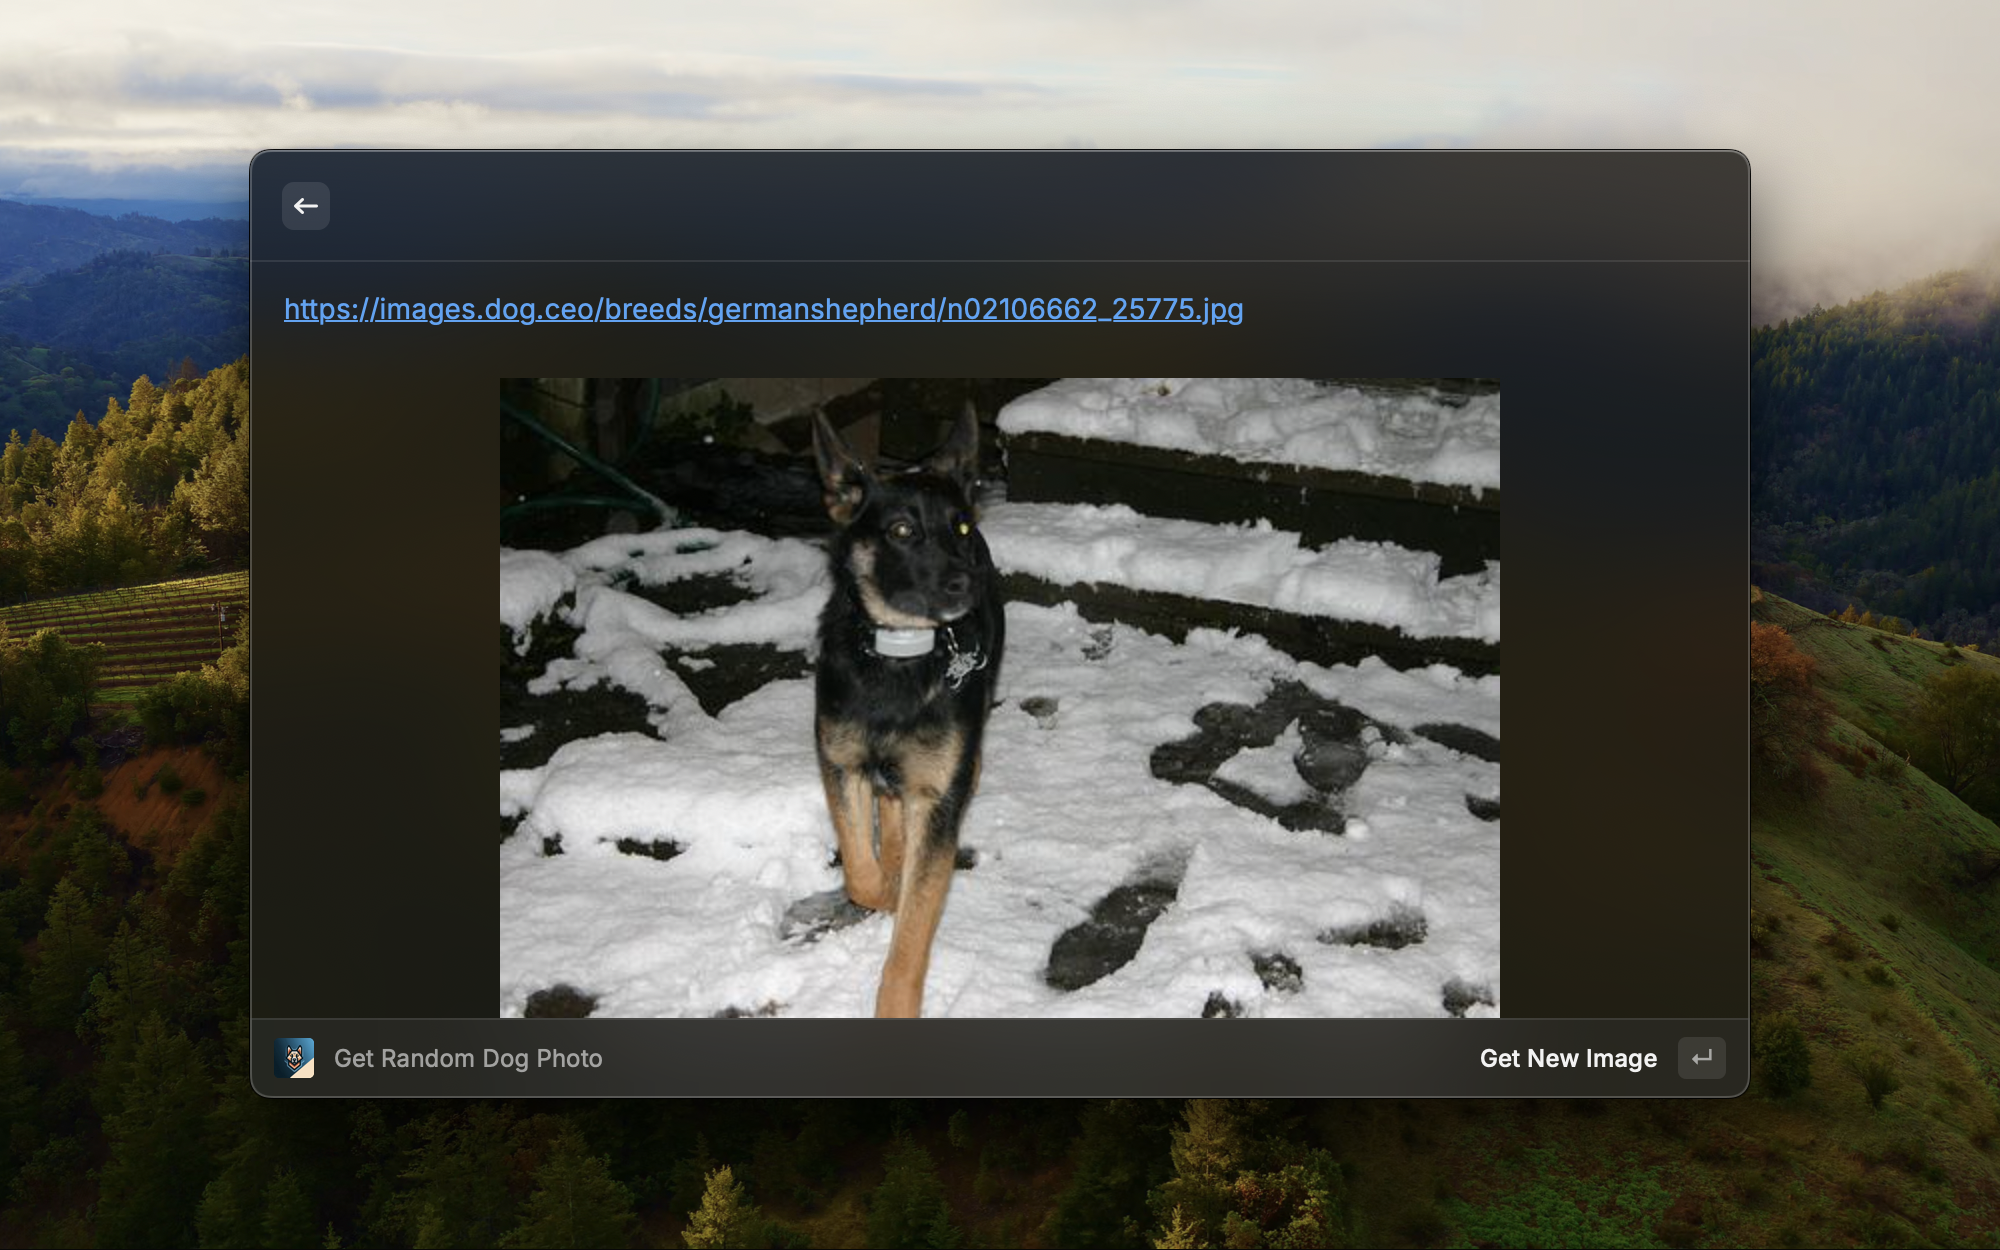
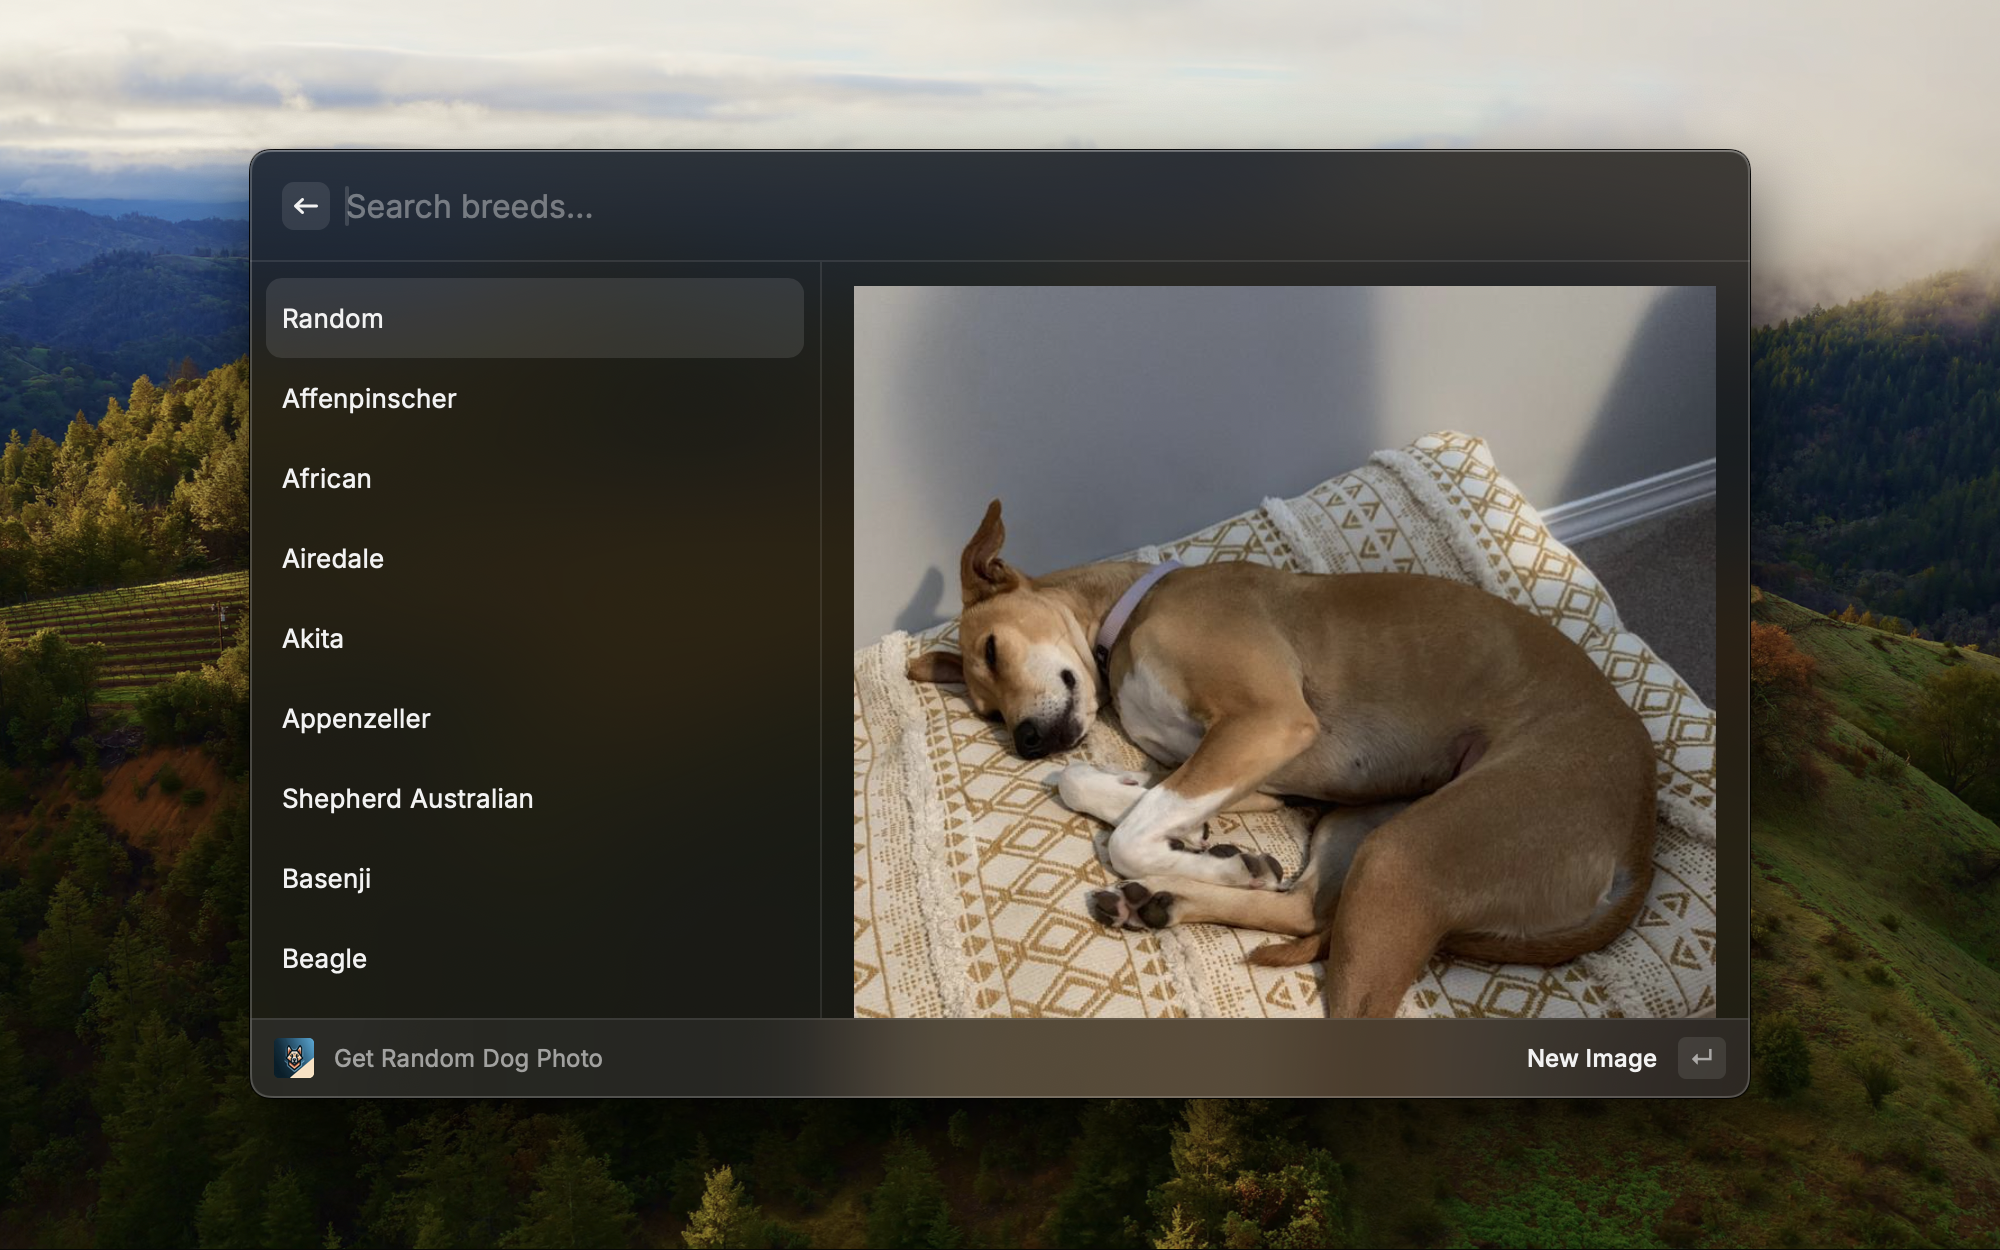
Enable fetching image for specific breed

diff --git a/src/breeds.ts b/src/breeds.ts
@@ -1,0 +1,151 @@
+// These are the breeds that work with the Dog API.
+export const breeds = [
+  { id: "affenpinscher", name: "Affenpinscher" },
+  { id: "african", name: "African" },
+  { id: "airedale", name: "Airedale" },
+  { id: "akita", name: "Akita" },
+  { id: "appenzeller", name: "Appenzeller" },
+  { id: "australian/shepherd", name: "Shepherd Australian" },
+  { id: "basenji", name: "Basenji" },
+  { id: "beagle", name: "Beagle" },
+  { id: "bluetick", name: "Bluetick" },
+  { id: "borzoi", name: "Borzoi" },
+  { id: "bouvier", name: "Bouvier" },
+  { id: "boxer", name: "Boxer" },
+  { id: "brabancon", name: "Brabancon" },
+  { id: "briard", name: "Briard" },
+  { id: "buhund/norwegian", name: "Norwegian Buhund" },
+  { id: "bulldog/boston", name: "Boston Bulldog" },
+  { id: "bulldog/english", name: "English Bulldog" },
+  { id: "bulldog/french", name: "French Bulldog" },
+  { id: "bullterrier/staffordshire", name: "Staffordshire Bullterrier" },
+  { id: "cattledog/australian", name: "Australian Cattledog" },
+  { id: "chihuahua", name: "Chihuahua" },
+  { id: "chow", name: "Chow" },
+  { id: "clumber", name: "Clumber" },
+  { id: "cockapoo", name: "Cockapoo" },
+  { id: "collie/border", name: "Border Collie" },
+  { id: "coonhound", name: "Coonhound" },
+  { id: "corgi/cardigan", name: "Cardigan Corgi" },
+  { id: "cotondetulear", name: "Cotondetulear" },
+  { id: "dachshund", name: "Dachshund" },
+  { id: "dalmatian", name: "Dalmatian" },
+  { id: "dane/great", name: "Great Dane" },
+  { id: "deerhound/scottish", name: "Scottish Deerhound" },
+  { id: "dhole", name: "Dhole" },
+  { id: "dingo", name: "Dingo" },
+  { id: "doberman", name: "Doberman" },
+  { id: "elkhound/norwegian", name: "Norwegian Elkhound" },
+  { id: "entlebucher", name: "Entlebucher" },
+  { id: "eskimo", name: "Eskimo" },
+  { id: "finnish/lapphund", name: "Lapphund Finnish" },
+  { id: "frise/bichon", name: "Bichon Frise" },
+  { id: "germanshepherd", name: "Germanshepherd" },
+  { id: "greyhound/italian", name: "Italian Greyhound" },
+  { id: "groenendael", name: "Groenendael" },
+  { id: "havanese", name: "Havanese" },
+  { id: "hound/afghan", name: "Afghan Hound" },
+  { id: "hound/basset", name: "Basset Hound" },
+  { id: "hound/blood", name: "Blood Hound" },
+  { id: "hound/english", name: "English Hound" },
+  { id: "hound/ibizan", name: "Ibizan Hound" },
+  { id: "hound/plott", name: "Plott Hound" },
+  { id: "hound/walker", name: "Walker Hound" },
+  { id: "husky", name: "Husky" },
+  { id: "keeshond", name: "Keeshond" },
+  { id: "kelpie", name: "Kelpie" },
+  { id: "komondor", name: "Komondor" },
+  { id: "kuvasz", name: "Kuvasz" },
+  { id: "labradoodle", name: "Labradoodle" },
+  { id: "labrador", name: "Labrador" },
+  { id: "leonberg", name: "Leonberg" },
+  { id: "lhasa", name: "Lhasa" },
+  { id: "malamute", name: "Malamute" },
+  { id: "malinois", name: "Malinois" },
+  { id: "maltese", name: "Maltese" },
+  { id: "mastiff/bull", name: "Bull Mastiff" },
+  { id: "mastiff/english", name: "English Mastiff" },
+  { id: "mastiff/tibetan", name: "Tibetan Mastiff" },
+  { id: "mexicanhairless", name: "Mexicanhairless" },
+  { id: "mix", name: "Mix" },
+  { id: "mountain/bernese", name: "Bernese Mountain" },
+  { id: "mountain/swiss", name: "Swiss Mountain" },
+  { id: "newfoundland", name: "Newfoundland" },
+  { id: "otterhound", name: "Otterhound" },
+  { id: "ovcharka/caucasian", name: "Caucasian Ovcharka" },
+  { id: "papillon", name: "Papillon" },
+  { id: "pekinese", name: "Pekinese" },
+  { id: "pembroke", name: "Pembroke" },
+  { id: "pinscher/miniature", name: "Miniature Pinscher" },
+  { id: "pitbull", name: "Pitbull" },
+  { id: "pointer/germanlonghair", name: "Germanlonghair Pointer" },
+  { id: "pointer/german", name: "German Pointer" },
+  { id: "pomeranian", name: "Pomeranian" },
+  { id: "poodle/medium", name: "Medium Poodle" },
+  { id: "poodle/miniature", name: "Miniature Poodle" },
+  { id: "poodle/standard", name: "Standard Poodle" },
+  { id: "poodle/toy", name: "Toy Poodle" },
+  { id: "pug", name: "Pug" },
+  { id: "puggle", name: "Puggle" },
+  { id: "pyrenees", name: "Pyrenees" },
+  { id: "redbone", name: "Redbone" },
+  { id: "retriever/chesapeake", name: "Chesapeake Retriever" },
+  { id: "retriever/curly", name: "Curly Retriever" },
+  { id: "retriever/flatcoated", name: "Flatcoated Retriever" },
+  { id: "retriever/golden", name: "Golden Retriever" },
+  { id: "ridgeback/rhodesian", name: "Rhodesian Ridgeback" },
+  { id: "rottweiler", name: "Rottweiler" },
+  { id: "saluki", name: "Saluki" },
+  { id: "samoyed", name: "Samoyed" },
+  { id: "schipperke", name: "Schipperke" },
+  { id: "schnauzer/giant", name: "Giant Schnauzer" },
+  { id: "schnauzer/miniature", name: "Miniature Schnauzer" },
+  { id: "segugio/italian", name: "Italian Segugio" },
+  { id: "setter/english", name: "English Setter" },
+  { id: "setter/gordon", name: "Gordon Setter" },
+  { id: "setter/irish", name: "Irish Setter" },
+  { id: "sharpei", name: "Sharpei" },
+  { id: "sheepdog/english", name: "English Sheepdog" },
+  { id: "sheepdog/shetland", name: "Shetland Sheepdog" },
+  { id: "shiba", name: "Shiba" },
+  { id: "shihtzu", name: "Shihtzu" },
+  { id: "spaniel/blenheim", name: "Blenheim Spaniel" },
+  { id: "spaniel/brittany", name: "Brittany Spaniel" },
+  { id: "spaniel/cocker", name: "Cocker Spaniel" },
+  { id: "spaniel/irish", name: "Irish Spaniel" },
+  { id: "spaniel/japanese", name: "Japanese Spaniel" },
+  { id: "spaniel/sussex", name: "Sussex Spaniel" },
+  { id: "spaniel/welsh", name: "Welsh Spaniel" },
+  { id: "spitz/japanese", name: "Japanese Spitz" },
+  { id: "springer/english", name: "English Springer" },
+  { id: "stbernard", name: "Stbernard" },
+  { id: "terrier/american", name: "American Terrier" },
+  { id: "terrier/australian", name: "Australian Terrier" },
+  { id: "terrier/bedlington", name: "Bedlington Terrier" },
+  { id: "terrier/border", name: "Border Terrier" },
+  { id: "terrier/cairn", name: "Cairn Terrier" },
+  { id: "terrier/dandie", name: "Dandie Terrier" },
+  { id: "terrier/fox", name: "Fox Terrier" },
+  { id: "terrier/irish", name: "Irish Terrier" },
+  { id: "terrier/kerryblue", name: "Kerryblue Terrier" },
+  { id: "terrier/lakeland", name: "Lakeland Terrier" },
+  { id: "terrier/norfolk", name: "Norfolk Terrier" },
+  { id: "terrier/norwich", name: "Norwich Terrier" },
+  { id: "terrier/patterdale", name: "Patterdale Terrier" },
+  { id: "terrier/russell", name: "Russell Terrier" },
+  { id: "terrier/scottish", name: "Scottish Terrier" },
+  { id: "terrier/sealyham", name: "Sealyham Terrier" },
+  { id: "terrier/silky", name: "Silky Terrier" },
+  { id: "terrier/tibetan", name: "Tibetan Terrier" },
+  { id: "terrier/toy", name: "Toy Terrier" },
+  { id: "terrier/welsh", name: "Welsh Terrier" },
+  { id: "terrier/westhighland", name: "Westhighland Terrier" },
+  { id: "terrier/wheaten", name: "Wheaten Terrier" },
+  { id: "terrier/yorkshire", name: "Yorkshire Terrier" },
+  { id: "tervuren", name: "Tervuren" },
+  { id: "vizsla", name: "Vizsla" },
+  { id: "waterdog/spanish", name: "Spanish Waterdog" },
+  { id: "weimaraner", name: "Weimaraner" },
+  { id: "whippet", name: "Whippet" },
+  { id: "wolfhound/irish", name: "Irish Wolfhound" },
+];

diff --git a/src/index.tsx b/src/index.tsx
@@ -1,5 +1,7 @@
-import { Action, ActionPanel, Detail } from "@raycast/api";
+import { Action, ActionPanel, List } from "@raycast/api";
 import { useFetch } from "@raycast/utils";
+import { useState } from "react";
+import { breeds } from "./breeds";
 
 export interface State {
   message: string;
@@ -7,19 +9,51 @@ export interface State {
 }
 
 export default () => {
-  const { isLoading, data, revalidate } = useFetch<State>("https://dog.ceo/api/breeds/image/random");
+  const [breed, setBreed] = useState("random");
 
-  const md = !isLoading && data?.message ? `${data.message} \n\n![](${data.message})` : "# Loading...";
+  const apiUrl =
+    breed && breed !== "random"
+      ? `https://dog.ceo/api/breed/${breed}/images/random`
+      : "https://dog.ceo/api/breeds/image/random";
+  const { isLoading, data, revalidate } = useFetch<State>(apiUrl);
+
+  const md = !isLoading && data?.message ? `![](${data.message})\n\n${data.message}` : "# Loading...";
+
+  const setMarkDown = (id: string) => {
+    setBreed((prevValue) => id || prevValue);
+    revalidate();
+  };
 
   return (
-    <Detail
+    <List
+      isShowingDetail={true}
+      searchBarPlaceholder="Search breeds..."
+      onSelectionChange={(id: string | null) => setMarkDown(id || "")}
       isLoading={isLoading}
-      markdown={md}
-      actions={
-        <ActionPanel>
-          <Action title="New Image" onAction={revalidate} />
-        </ActionPanel>
-      }
-    />
+    >
+      <List.Item
+        id="random"
+        title="Random"
+        detail={<List.Item.Detail markdown={md} />}
+        actions={
+          <ActionPanel>
+            <Action title="New Image" onAction={revalidate} />
+          </ActionPanel>
+        }
+      />
+      {breeds.map(({ id, name }) => (
+        <List.Item
+          key={id}
+          id={id}
+          title={name}
+          detail={<List.Item.Detail markdown={md} />}
+          actions={
+            <ActionPanel>
+              <Action title="New Image" onAction={revalidate} />
+            </ActionPanel>
+          }
+        />
+      ))}
+    </List>
   );
 };

diff --git a/README.md b/README.md
@@ -1,5 +1,5 @@
 # Dog Images
 
-Get a random photo of a dog.
+Get a random photo of a dog. Fetch by breed or just randomly.
 
 Made with the [Dog API](https://dog.ceo/dog-api)
